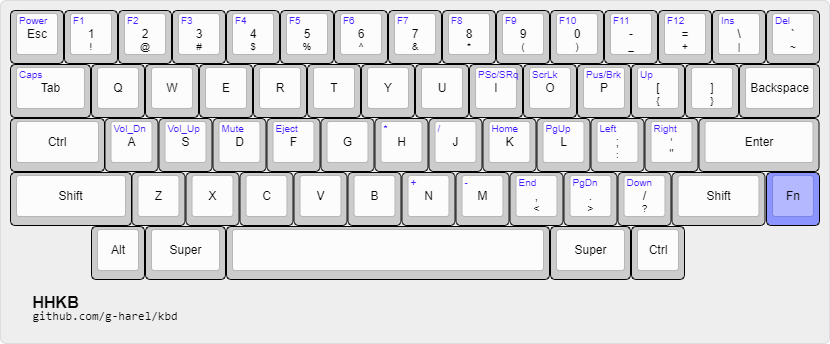
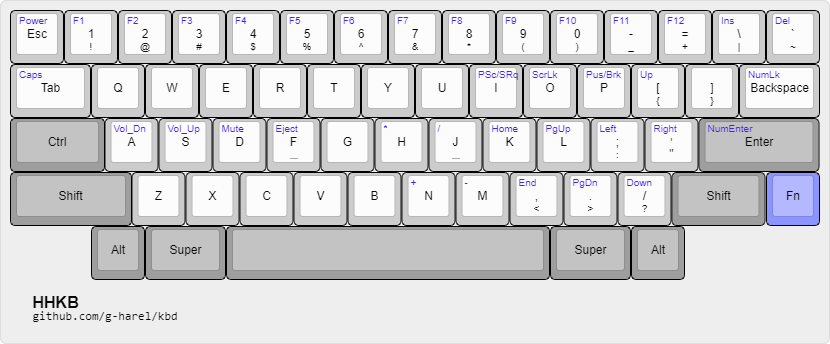
add homing keys + finish hhkb details

Changed region(s): [[0.0, 0.3488, 0.994, 0.814], [0.9036, 0.2035, 0.9337, 0.2326]]

diff --git a/README.md b/README.md
@@ -3,3 +3,5 @@
 ![](kle/hhkb.png)
 
 ![](kle/id80.png)
+
+![](kle/tkl.png)
